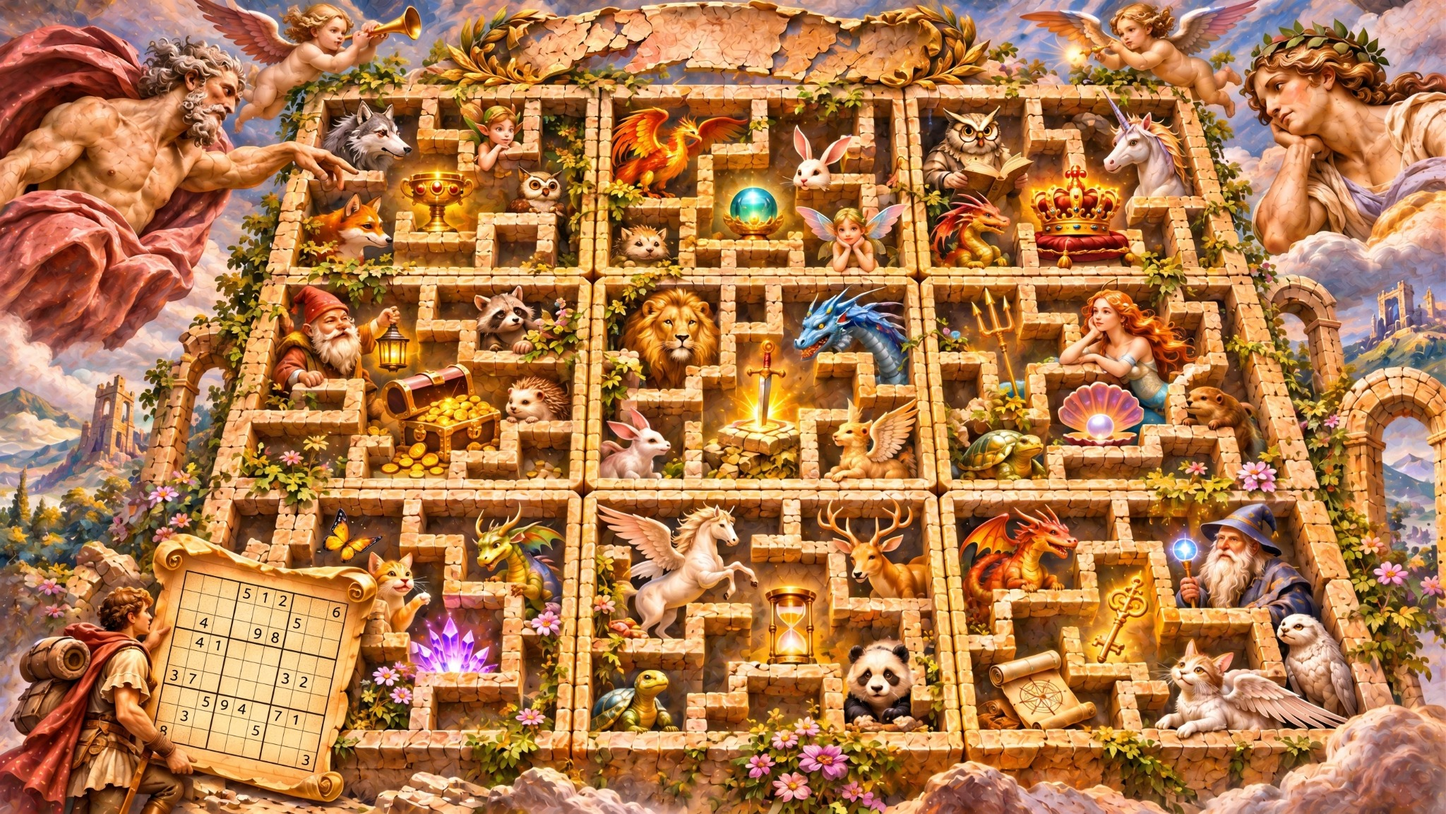
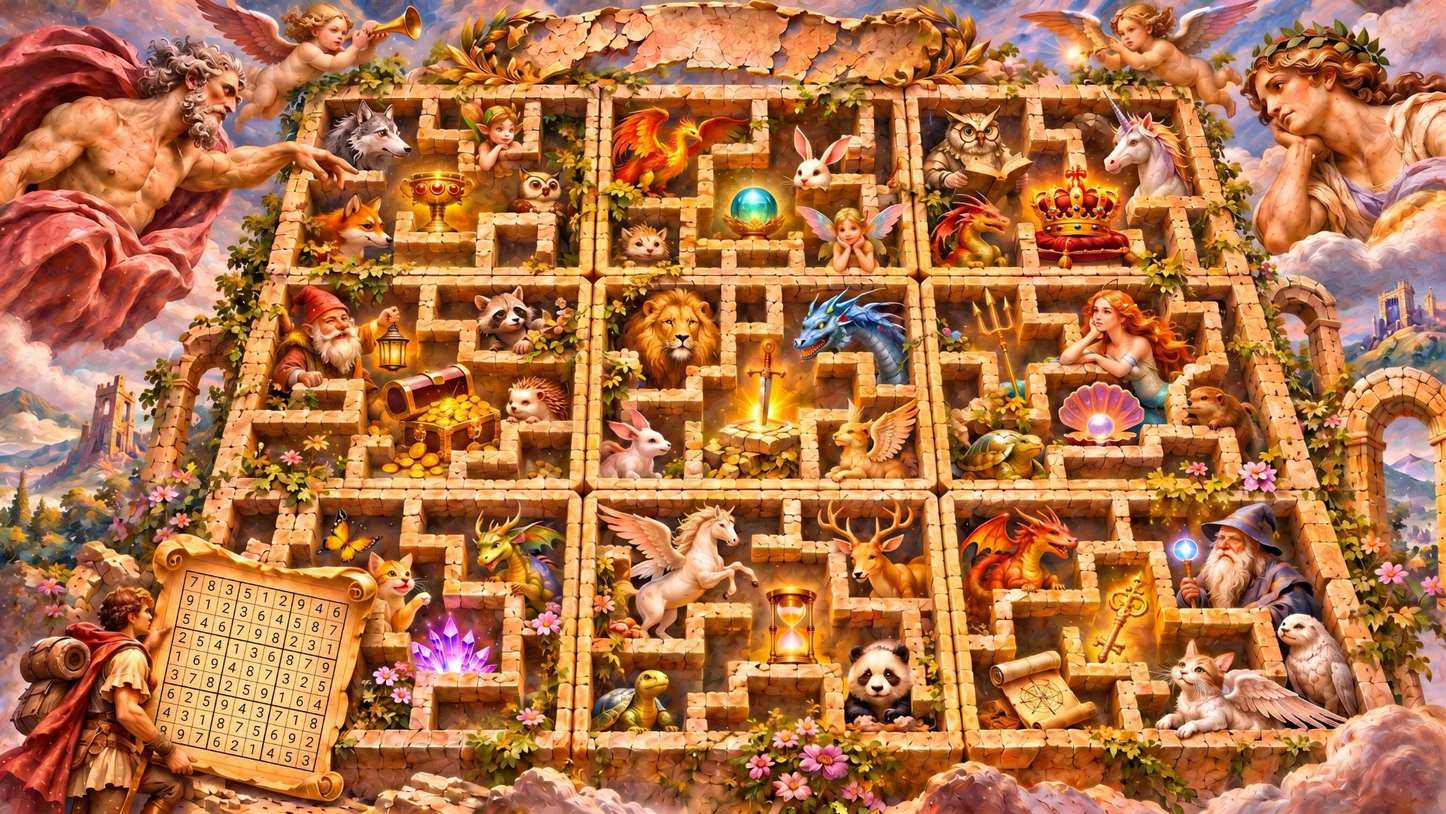
Add files via upload

Changed region(s): [[0.0, 0.0, 1.0, 1.0], [0.9062, 0.9991, 0.9375, 1.0], [0.0625, 0.9991, 0.0938, 1.0]]

diff --git a/styles.css b/styles.css
@@ -1,3 +1,5 @@
 :root{font-family:system-ui,-apple-system,"Noto Sans TC",sans-serif;color:#26352e;background:#f3f2eb;font-synthesis:none}*{box-sizing:border-box}body{margin:0;padding:26px 14px 44px}.shell{max-width:1100px;margin:auto}.header{padding:8px 4px 20px}.eyebrow,.tag{font-size:11px;letter-spacing:.14em;font-weight:800;color:#718276}.header h1{font-size:clamp(26px,5vw,40px);margin:8px 0 2px;letter-spacing:-.04em}.header h1 span{font-size:14px;vertical-align:middle;background:#dce9dc;color:#356347;padding:5px 9px;border-radius:20px;letter-spacing:0}.header p,.section-heading p{color:#78847b;margin:5px 0}.panel{background:#fff;border:1px solid #e3e6df;border-radius:18px;padding:20px;margin:0 0 16px;box-shadow:0 8px 24px #253a2b0a}.intro{display:grid;grid-template-columns:1fr auto;gap:4px 20px;align-items:center}.intro h2,.section-heading h2{margin:5px 0;font-size:22px}.intro p{margin:4px 0;color:#7c877f}.progress-number{grid-column:2;grid-row:1/span 2;display:flex;align-items:baseline;gap:4px;color:#809087}.progress-number strong{font-size:40px;color:#2f6a4c}.progress-number small{display:block;position:absolute;margin-top:60px;font-size:11px}.progress-track{grid-column:1/-1;height:9px;background:#edf0eb;border-radius:20px;overflow:hidden;margin-top:14px}.progress-track div{height:100%;width:0;background:linear-gradient(90deg,#83b58a,#d2ad60);border-radius:20px;transition:width .35s}.progress-foot{grid-column:1/-1;display:flex;justify-content:space-between;font-size:12px;color:#78847b}.progress-foot strong{color:#477655}.world-panel{padding:12px}.world-frame{position:relative;overflow:hidden;border-radius:12px;background:#252525;line-height:0}.world-frame>img{display:block;width:100%;height:auto;object-fit:contain}.object-layers{position:absolute;inset:0;pointer-events:none}.object-layers img{position:absolute;inset:0;width:100%;height:100%;object-fit:fill}.world-footer{display:flex;justify-content:space-between;gap:12px;padding:12px 5px 2px;color:#66746a;font-size:13px}.world-footer strong{white-space:nowrap;color:#477655}.note{margin:8px 5px 2px;color:#89938b;font-size:11px;line-height:1.6}.section-heading{display:flex;justify-content:space-between;align-items:end;gap:10px;margin-bottom:15px}.section-heading p{font-size:12px}.actions{display:flex;align-items:center;gap:9px;flex-wrap:wrap}.actions button,.secondary,.danger,.file-button{border:1px solid #dfe5dc;background:#f8faf7;border-radius:10px;padding:10px 13px;text-align:center;color:#34473b;cursor:pointer;font:inherit;font-size:13px}.actions button:hover,.secondary:hover,.file-button:hover{border-color:#8eae94;background:#f1f7f0}.actions .primary{background:#356b4c;color:white;border-color:#356b4c;font-weight:700}.actions label{font-size:12px;color:#778278}.actions input{width:72px;padding:9px;border:1px solid #dfe5dc;border-radius:9px;font:inherit}.stage-explain{display:flex;gap:10px 20px;flex-wrap:wrap;margin-top:17px;color:#718076;font-size:12px}.stage-explain b{color:#3e6549}.message{margin:14px 0;padding:12px 14px;background:#f1f5ef;border-radius:10px;color:#52705a;font-size:13px}.tools{display:flex;gap:8px;flex-wrap:wrap}.secondary,.danger,.file-button{font-size:12px;padding:9px 13px}.danger{color:#9b5550;background:#fff8f7;border-color:#ecd9d6}.file-button input{display:none}footer{text-align:center;color:#98a098;font-size:11px;padding:8px}@media(max-width:620px){body{padding:14px 9px 28px}.panel{padding:14px;border-radius:14px}.world-panel{padding:8px}.section-heading{display:block}.section-heading p{margin-top:5px}.world-footer{font-size:11px}.actions>*{flex:1}.actions input{flex:0 0 65px}}
 
 .final-action{text-align:center;padding:4px 0 8px}.final-action button{border:0;border-radius:10px;padding:11px 18px;background:#356b4c;color:#fff;font:inherit;font-weight:700;cursor:pointer}.final-action button[hidden]{display:none}
+
+.tester-hint{color:var(--muted,#777);font-size:.92rem;align-self:center}

diff --git a/index.html b/index.html
@@ -9,7 +9,7 @@
   <main class="shell">
     <header class="header">
       <div class="eyebrow">樂在齡中 · INDEPENDENT GAME MODULE</div>
-      <h1>Achievement Engine <span>V1.1</span></h1>
+      <h1>Achievement Engine <span>V1.3</span></h1>
       <p>圖片世界 Renderer 示範版</p>
     </header>
     <section class="panel intro">
@@ -25,12 +25,12 @@
     </section>
     <section class="panel controls">
       <div class="section-heading"><div><div class="tag">MILESTONE TESTER</div><h2>里程碑測試</h2></div><p id="next-stage">下一關：第 1 關</p></div>
-      <div class="actions"><button id="complete-next" class="primary">完成下一關</button><label for="stage-input">指定關卡</label><input id="stage-input" type="number" min="1" max="45" value="1"><button id="complete-selected">完成指定關卡</button></div>
+      <div class="actions"><button id="complete-next" class="primary">完成下一關</button><span class="tester-hint">測試時依序解鎖，每次只完成一個里程碑。</span></div>
       <div class="stage-explain"><span><b>第 1～43 關</b>　物件解鎖圖層</span><span><b>第 44 關</b>　天空恢復色彩（002）</span><span><b>第 45 關</b>　迷宮與完整世界（003 → 004）</span></div>
       <div id="message" class="message" role="status">依序完成關卡，逐步喚醒這座迷宮世界。</div>
       <div class="tools"><button id="export" class="secondary">匯出進度</button><label class="secondary file-button">匯入進度<input id="import-file" type="file" accept="application/json"></label><button id="reset" class="danger">重設示範</button></div>
     </section>
-    <footer>V1.1 · 圖片世界展示版 · 核心引擎沿用 V1.0 · 進度獨立保存於目前瀏覽器</footer>
+    <footer>V1.3 · 依序解鎖測試版 · 核心引擎沿用 V1.0 · 進度獨立保存於目前瀏覽器</footer>
   </main>
   <script src="core/achievement-engine.js"></script><script src="data/demo-config.js"></script><script src="renderer/demo.js"></script>
 </body></html>

diff --git a/renderer/demo.js b/renderer/demo.js
@@ -59,7 +59,6 @@
     $('message').textContent = message;
     $('reward-count').textContent = progress.unlockedCount;
     $('next-stage').textContent = progress.completed >= 45 ? '全部完成' : `下一關：第 ${progress.completed + 1} 關`;
-    $('stage-input').value = Math.min(45, progress.completed + 1);
     renderWorld();
     document.querySelectorAll('[data-stage]').forEach(button => {
       const stage = Number(button.dataset.stage);
@@ -75,10 +74,15 @@
 
   $('reveal-final').addEventListener('click', () => { revealFinalWorld = true; message = '最終完整世界已揭曉！'; render(); });
   $('complete-next').addEventListener('click', () => {
-    const next = engine.getProgress().completed + 1;
+    // 僅允許依序完成下一個里程碑，避免示範介面跳關造成進度與關卡順序不一致。
+    const completed = engine.getState().completedEvents.length;
+    const next = completed + 1;
     if (next <= 45) completeStage(next);
+    else {
+      message = '45 個里程碑已全部完成。';
+      render();
+    }
   });
-  $('complete-selected').addEventListener('click', () => completeStage(Number($('stage-input').value)));
   $('export').addEventListener('click', () => {
     const blob = new Blob([engine.exportProgress()], { type: 'application/json' });
     const url = URL.createObjectURL(blob);

diff --git a/README.md b/README.md
@@ -1,6 +1,6 @@
-# Achievement Engine V1.1
+# Achievement Engine V1.3
 
-獨立成就引擎的圖片世界 Renderer 示範版。V1.1 沿用 V1.0 的 `core/achievement-engine.js`，沒有修改核心引擎邏輯。
+獨立成就引擎的圖片世界 Renderer 示範版。V1.3 沿用 V1.0 的 `core/achievement-engine.js`，沒有修改核心引擎邏輯。
 
 ## 使用方式
 
@@ -14,7 +14,7 @@
 - `assets/world/001.jpg`：初始灰階世界。
 - `assets/world/002.jpg`：第 44 關天空恢復色彩的參考圖。
 - `assets/world/003.jpg`：第 45 關迷宮環境恢復色彩的參考圖。
-- `assets/world/004.jpg`：最終完整世界。
+- `assets/world/004.jpg`：最終完整世界（V1.3 已替換為包含第45步完整數獨解答的新母圖）。
 
 ## 重要：物件圖層尚待拆分
 
@@ -42,3 +42,15 @@
 - 第 1～43 關的透明物件 PNG 尚未製作；需要依 004.jpg 精準拆分與遮罩處理。
 - 第 44、45 關以使用者提供的 002、003、004 圖片作階段呈現。
 - 進度儲存仍沿用 V1.0 的 localStorage 機制。
+
+
+## V1.3 測試介面修正
+- 移除「指定關卡」輸入與「完成指定關卡」按鈕。
+- 測試介面只保留「完成下一關」，每次依序完成一個里程碑，避免跳關造成進度顯示與解鎖順序混淆。
+- V1.0 核心引擎未修改；本次只調整示範介面與 Renderer 的測試流程。
+
+
+## V1.3 圖片更新
+- 只替換 `assets/world/004.jpg`，使用使用者於 2026-11-24 提供、卷軸已填入第45步完整答案的圖片。
+- `001.jpg`、`002.jpg`、`003.jpg` 保持不變。
+- 不修改 V1.0 核心、45 個里程碑設定、解鎖順序或 V1.2 的依序測試介面。
